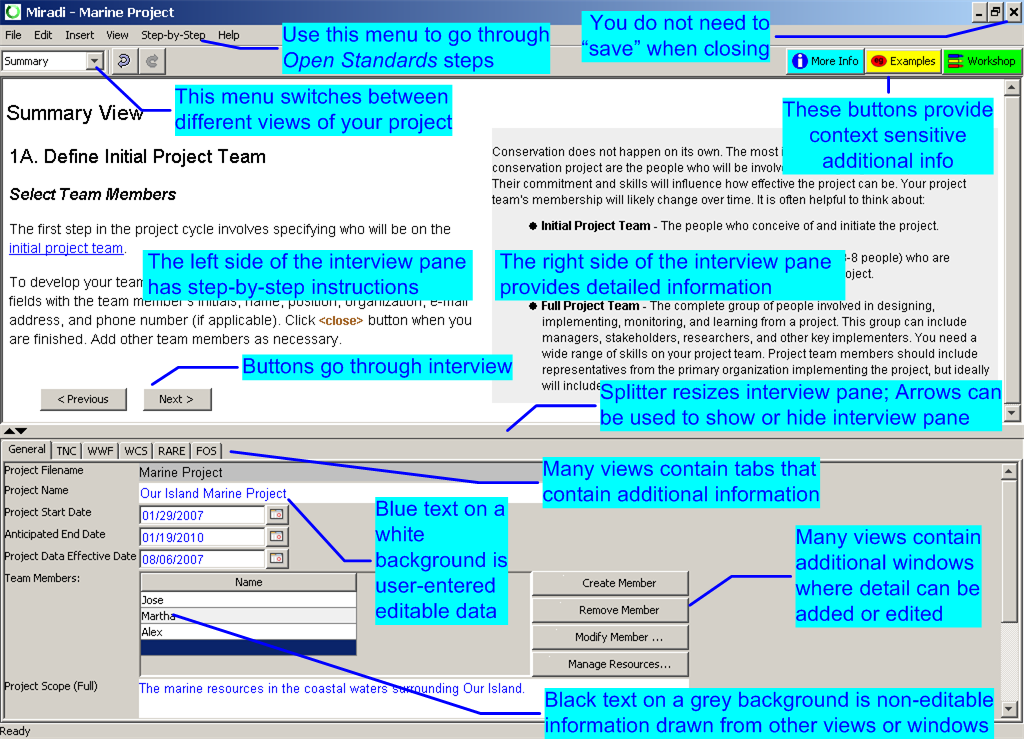
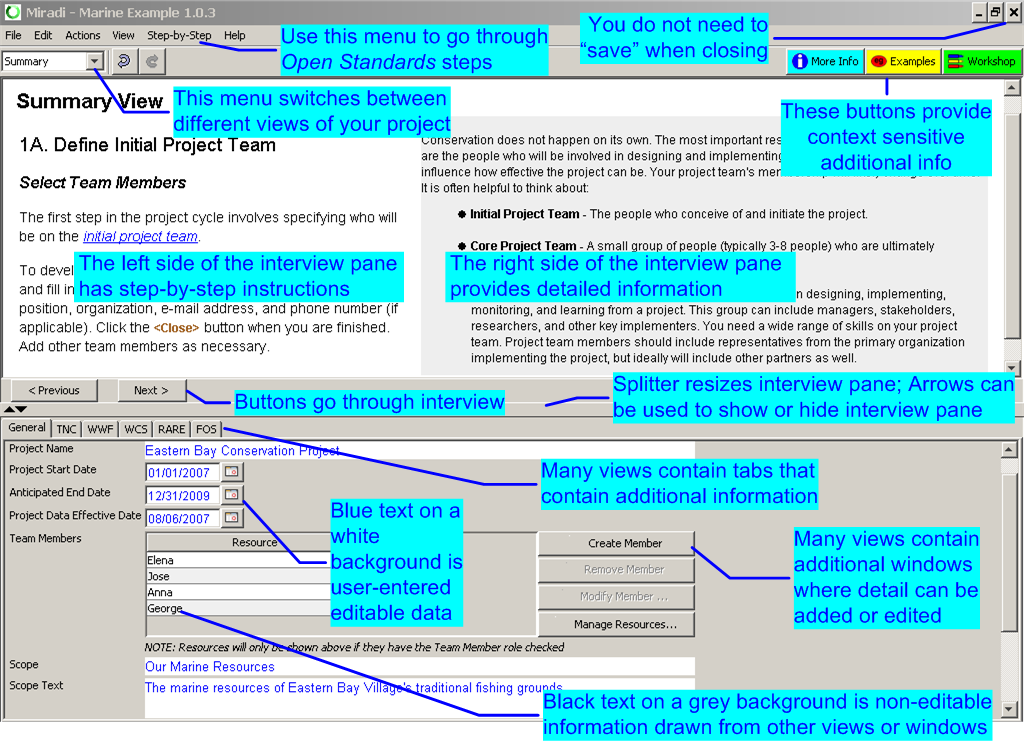
updated summary wizard

diff --git a/source/org/conservationmeasures/eam/views/summary/wizard/SummaryOverviewStep.html b/source/org/conservationmeasures/eam/views/summary/wizard/SummaryOverviewStep.html
@@ -8,7 +8,7 @@ Beneficent Technology, Inc. ("Benetech"), Palo Alto, California. -->
 <td align='left' valign='top' width='45%'>
 <p>
 The window below provides an overview of your project. 
-You can fill in your project's name, start date, and date of last data entry.
+You can fill in your project's name, your project's start and end dates, and the project data effective date (the date of your most recent updating of the Miradi project file).
 </p>
 <p class='nextsteps'>
 Click next to define initial project team.
@@ -24,11 +24,11 @@ and the Overall Application</strong></p>
 </p>
 The &quot;General&quot; page contains information fields that most projects will want to fill in.  Some organizations 
 will have their own custom data fields for their projects.  You can find these by clicking on the 
-appropriate tab. 
+appropriate tab.  The summary page is also used to control several project-wide options such as the number of currency decimal places and the start and end-dates for your project that will affect other views such as workplanning.
 <p>
 <strong>Overall Application</strong>
 </p>
-All views have an interview pane on top and an action pane below.  
+All views have an interview pane on top and an action pane below. Use the previous and next buttons to <strong>move backwards and forward</strong> through the interview.  
 <strong>You can resize or hide the interview pane</strong> 
 by using the splitter and/or arrows.  
 Use the buttons on the upper right to get context sensitive 

diff --git a/source/org/conservationmeasures/eam/views/summary/wizard/SummaryDefineProjectVisionStep.html b/source/org/conservationmeasures/eam/views/summary/wizard/SummaryDefineProjectVisionStep.html
@@ -18,8 +18,8 @@ Add your project's
 vision statement to the appropriate fields. 
 </p>
 <p>
-The full version should contain the complete description of your project's vision.  
-The short version should be a 3-5 word summary of the vision. 
+The Vision Label field should contain a 3-5 word summary of your vision. The Vision Text field should contain the complete description of your project's vision.  
+
 </p>
 <p>
 Review the criteria for a good vision statement and revise your statement as necessary.

diff --git a/source/org/conservationmeasures/eam/views/summary/wizard/SummaryDefineProjectScopeStep.html b/source/org/conservationmeasures/eam/views/summary/wizard/SummaryDefineProjectScopeStep.html
@@ -18,9 +18,9 @@ Add your project's
  to the appropriate fields.
 </p>
 <p>
-The full version should contain the complete description 
-of your project's scope.  The short version should be a 
-3-5 word summary of the scope. 
+The Scope field should contain a 
+3-5 word summary title of your scope.  The Scope Text field should contain the complete description 
+of your project's scope.   
 </p>
 </td>
 <td width='55%' align='left' valign='top'>

diff --git a/source/org/conservationmeasures/eam/views/summary/wizard/SummaryDefineTeamMembersStep.html b/source/org/conservationmeasures/eam/views/summary/wizard/SummaryDefineTeamMembersStep.html
@@ -26,7 +26,7 @@ Click the
 <code class='toolbarbutton'>&lt;Close&gt;</code> 
 button when you are finished.  Add other team members as necessary.
 </p>
-<p></p>
+<p></p>Click next to move on to the next page, or previous to return to the page before.
 </td>
 <td width='55%' align='left' valign='top'>
 <div class='navigation'>
